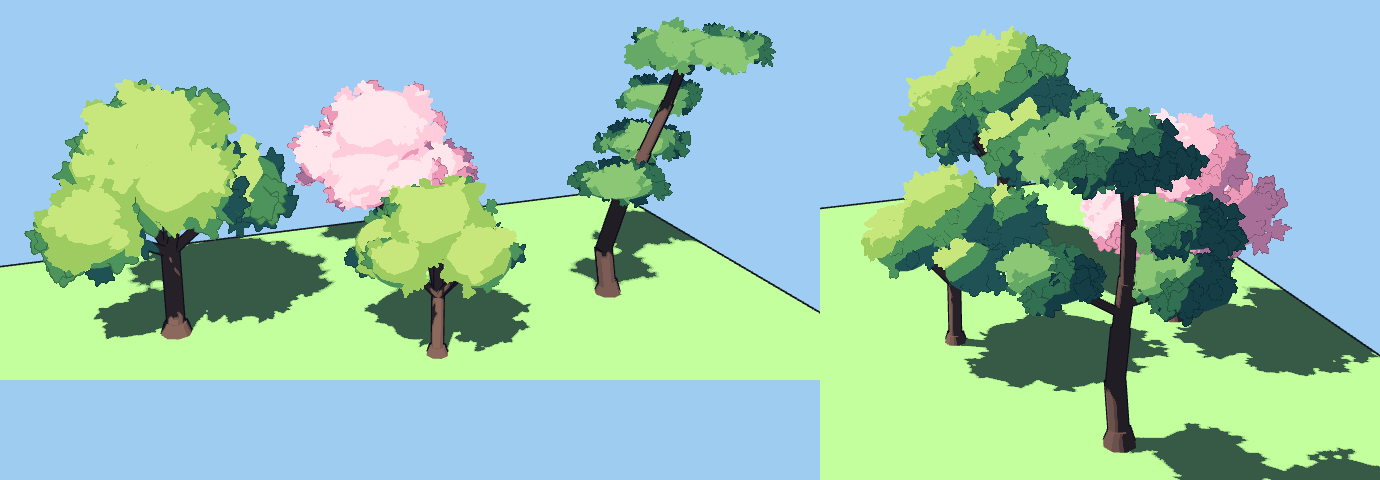
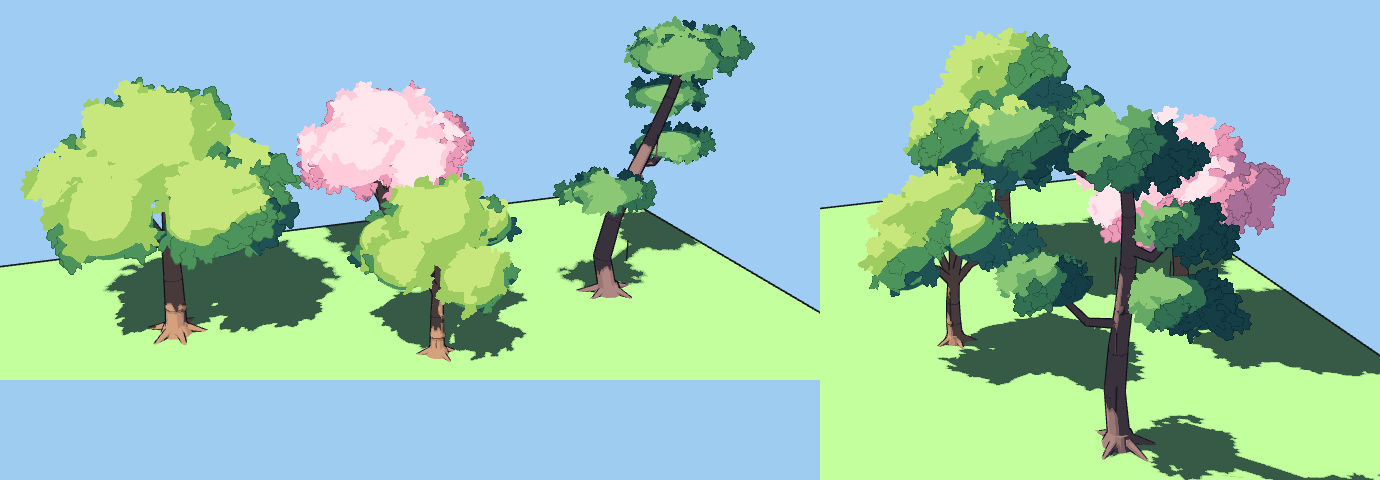
Foliage: better trunks
Trunks bend through a few points and taper, with joint balls hiding the
seams, a flared foot with surface roots, a knot and bark strokes. Limbs
rise then reach out in two segments with a twig each (pine limbs dip and
lift). Bark is a warmer brown with a little fill light so it stays a
dark brown, not black, in the crown's shade.

Claude-Session: https://claude.ai/code/session_01JuNQs8VxyuqxoqKQNTs1C5

diff --git a/.claude/skills/godot-diorama-scene/references/foliage.md b/.claude/skills/godot-diorama-scene/references/foliage.md
@@ -37,7 +37,16 @@ balls (the first beach pines) reads as a toy, not as anime.
    of the same hue (no black ink on foliage). The trunk and branches keep the toon kit's ink line.
 5. **Glow.** Brighten the rim on the side facing away from the sun, as if light comes through the leaves.
    It is subtle.
-6. **Wind.** Sway slowly in the vertex shader, more toward the top and the outside of the crown.
+6. **Trunk and limbs** (`trunk`, `branch`, `limb`).
+   - The trunk bends gently through a few points, tapering (the `top` ratio of each rod), with a round joint
+     ball a hair fatter than the limbs at every bend, so it curves without kinks or cap seams.
+   - The foot flares out, and 4 to 5 surface roots run out into the ground.
+   - Add one knot and a few thin darker bark strokes.
+   - Limbs rise and then reach out in two segments, each with a small twig, and end in a clump. Pine limbs
+     dip and then lift toward their pad.
+   - The bark is a warm brown (pine is greyer) with a little fill light (`lit` 0.3), so the part in the
+     crown's shade stays a readable dark brown instead of black. The bark keeps the ink line.
+7. **Wind.** Sway slowly in the vertex shader, more toward the top and the outside of the crown.
 
 ## Notes
 
